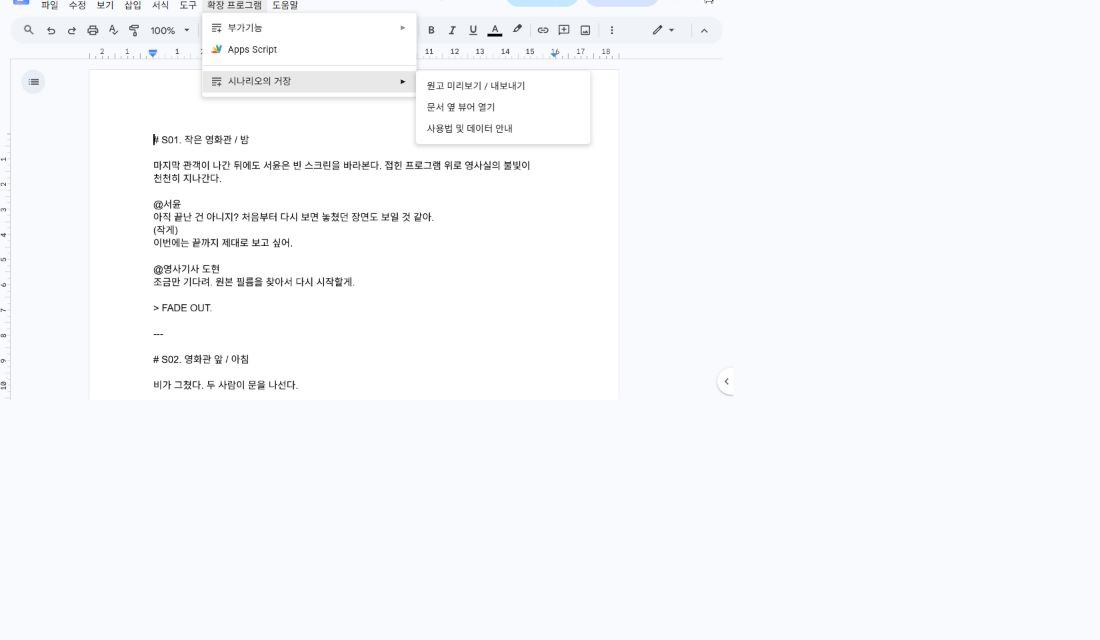
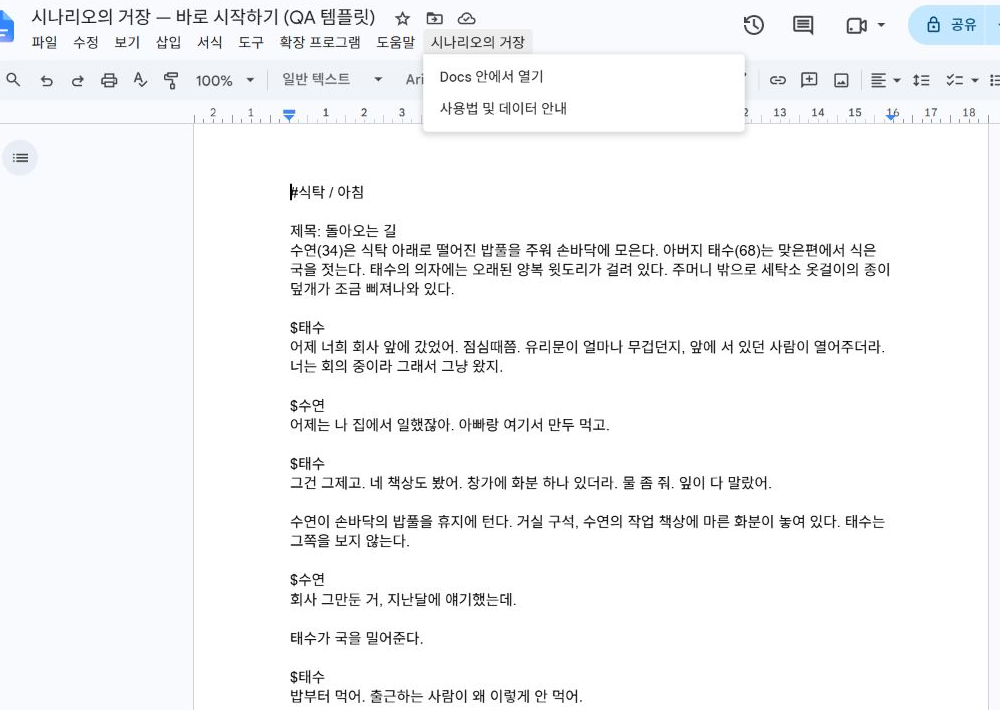
Refresh dollar syntax walkthrough with private-data-free Docs screenshots

diff --git a/scenariomaster/guide.html b/scenariomaster/guide.html
@@ -11,10 +11,10 @@ $서윤
 $도현
 조금만 기다려. 처음부터 다시 시작할게.
 
-서윤이 접힌 프로그램을 조심스럽게 펼친다.</pre><p>최신 다운로드용 개발판에서 작품명이나 부 제목을 넣고 싶다면 <strong>##마지막 상영</strong>처럼 쓰세요. 씬 번호 없이 크고 굵은 제목으로 표시됩니다.</p><p>사진이나 장면 스케치는 Docs의 <strong>삽입 → 이미지</strong>로 넣으세요. ‘텍스트 줄 안’ 배치를 권장합니다. 굵게·기울임은 Docs의 해당 버튼으로 적용하세요.</p><a href="./syntax.html">다른 상황의 입력법도 살펴보기 →</a></div></div></section>
-<section class="step-guide" id="open"><span class="number">02 · 미리보기 열기</span><h2>지금 쓰는 원고를 바로 보세요.</h2><p>Google Docs에서 <strong>시나리오의 거장 → Docs 안에서 열기</strong>를 누르면 현재 원고가 바로 나타납니다. QA 템플릿에서는 도움말 옆에 메뉴가 있고, 설치 방식에 따라 확장 프로그램 안에 보일 수 있습니다.</p><figure><a class="capture menu" href="./images/guide-open.png" data-enlarge aria-label="Google Docs의 확장 프로그램에서 시나리오의 거장과 Docs 안에서 열기 메뉴를 연 화면 — 크게 보기"><img src="./images/guide-open.png" alt="Google Docs의 확장 프로그램에서 시나리오의 거장과 Docs 안에서 열기 메뉴를 연 화면" loading="lazy" width="1100" height="640"></a><figcaption>누를 곳: 상단 <strong>확장 프로그램</strong> → <strong>시나리오의 거장</strong> → 오른쪽 <strong>Docs 안에서 열기</strong>. <span>사진을 누르면 크게 볼 수 있습니다.</span></figcaption></figure><p>처음 열 때는 현재 문서·창 표시·계정 이메일 확인 권한을 사용합니다. 별도의 자동 갱신 연결은 Google Docs 읽기 권한을 요청합니다. 권한 자체는 계정의 모든 Docs를 읽을 수 있지만 앱은 지금 연 문서만 읽고 수정·삭제하지 않습니다. 연결 서버는 인증정보만 암호화하여 최대 30일 보관합니다. <a href="./privacy.html">개인정보 안내</a></p><p class="hint">미리보기는 Docs 안에 열립니다. 맨 위 제목을 끌어 창을 옮기고 오른쪽 아래 손잡이로 크기를 조절할 수 있습니다. 문서 옆에 두고 쓰기 편한 크기로 조절해 보세요.</p></section>
-<section class="step-guide"><div class="step-grid"><div><h2>쓴 원고가 대본으로 보입니다.</h2><p>뷰어가 열리면 미리보기를 확인하세요. 내용이 비어 있거나 방금 고친 부분이 안 보이면 위쪽의 <strong>현재 Docs 읽기</strong> 또는 <strong>Docs 최신 내용 읽기</strong>를 누릅니다.</p><p>문서 수정은 자동으로 확인합니다. 입력한 글자가 즉시 나타나지는 않을 수 있으니, 저장하기 전 최신 내용을 한 번 확인해 주세요.</p><ul><li><strong>씬 목록 / 이전 씬 / 다음 씬:</strong> 보고 싶은 장면으로 이동합니다.</li><li><strong>보기 크기:</strong> 화면에서 편하게 읽을 크기를 고릅니다.</li><li><strong>원고만 크게 보기:</strong> 설정을 접고 원고에 집중합니다.</li></ul><p class="hint">보기 크기는 화면 확대입니다. 저장할 파일의 글자 크기는 다음 단계의 <strong>글꼴 · 용지 · 양식</strong>에서 바꾸세요.</p></div><figure><a class="capture " href="./images/guide-preview.png" data-enlarge aria-label="원고가 가운데 인물명 양식으로 표시된 실제 미리보기 창 — 크게 보기"><img src="./images/guide-preview.png" alt="원고가 가운데 인물명 양식으로 표시된 실제 미리보기 창" loading="lazy" width="800" height="875"></a><figcaption>위쪽에서 최신 원고를 읽고, 가운데 씬 목록으로 이동하며, 아래에서 출력 모양을 확인합니다. <span>사진을 누르면 크게 볼 수 있습니다.</span></figcaption></figure></div></section>
-<section class="step-guide" id="format"><div class="step-grid"><div><span class="number">03 · 모양 고르기</span><h2>원고는 그대로.<br>제출할 모양만 바꾸세요.</h2><ol><li>뷰어 위쪽 <strong>기본 양식</strong>에서 탭형 또는 가운데 양식을 고릅니다.</li><li><strong>글꼴 · 용지 · 양식</strong>을 누르면 자세한 설정이 펼쳐집니다.</li><li>글꼴과 대사 배치를 먼저 고르세요. 더 세밀하게 바꾸려면 <strong>양식 전체 커스텀 · 용지부터 문단까지</strong>를 펼칩니다.</li><li>용지 크기, 여백, 글자 크기, 인물명·대사 위치를 조절하고 미리보기를 확인합니다. 값은 변경할 때 반영됩니다.</li></ol><p class="hint">처음에는 기본 양식으로 시작해도 충분합니다. 변경한 설정은 이 브라우저에 자동으로 저장되어 다음에도 같은 설정으로 시작할 수 있어요.</p><p>이 과정은 Docs 원문의 내용이나 모양을 덮어쓰지 않습니다. 동료는 같은 원고에서 자신의 출력 양식을 고를 수 있습니다.</p></div><figure><a class="capture " href="./images/guide-settings.png" data-enlarge aria-label="글꼴과 대사 배치 및 용지 크기 여백을 조절하는 실제 설정 화면 — 크게 보기"><img src="./images/guide-settings.png" alt="글꼴과 대사 배치 및 용지 크기 여백을 조절하는 실제 설정 화면" loading="lazy" width="800" height="875"></a><figcaption>위: <strong>글꼴 · 대사 배치</strong>. 아래: <strong>용지 크기와 여백</strong>. 모두 처음부터 바꿀 필요는 없습니다. <span>사진을 누르면 크게 볼 수 있습니다.</span></figcaption></figure></div></section>
-<section class="step-guide" id="save"><div class="step-grid"><div><span class="number">04 · 파일 저장</span><h2>한글 파일 또는 PDF로<br>건네세요.</h2><h3>한글에서 편집할 파일이 필요하다면</h3><p>위쪽 <strong>한글 HWPX</strong>를 누르세요. 내려받은 파일은 보통 컴퓨터의 ‘다운로드’ 폴더에 있습니다. 확장자는 <strong>.hwpx</strong>이며, 오래된 .hwp 형식과는 다릅니다.</p><h3>읽거나 인쇄할 파일이 필요하다면</h3><p><strong>PDF 저장 / 인쇄</strong>를 누른 뒤, 인쇄 창의 대상(프린터)을 <strong>PDF로 저장</strong>으로 고릅니다. 저장 위치와 파일 이름을 정하면 끝입니다.</p><p>PDF는 <strong>배율 100% · 여백 없음 · 머리글과 바닥글 끄기</strong>로 확인하세요. 기기마다 인쇄 창의 항목 이름은 조금 다를 수 있습니다.</p><p class="hint">보내기 전, 저장한 파일을 한 번 열어 보세요. 설치된 글꼴과 프로그램에 따라 줄바꿈과 쪽 수가 달라질 수 있습니다.</p></div><figure><a class="capture " href="./images/guide-export.png" data-enlarge aria-label="미리보기 위쪽에 한글 HWPX와 PDF 저장 인쇄 버튼이 표시된 화면 — 크게 보기"><img src="./images/guide-export.png" alt="미리보기 위쪽에 한글 HWPX와 PDF 저장 인쇄 버튼이 표시된 화면" loading="lazy" width="800" height="875"></a><figcaption>위쪽 <strong>한글 HWPX</strong> 또는 그 옆 <strong>PDF 저장 / 인쇄</strong>를 누르세요. 사진은 HWPX 다운로드를 시작한 화면입니다. <span>사진을 누르면 크게 볼 수 있습니다.</span></figcaption></figure></div></section>
+서윤이 접힌 프로그램을 조심스럽게 펼친다.</pre><figure><a class="capture" href="./images/guide-write.png" data-enlarge aria-label="달러 기호로 인물명을 적은 실제 Google Docs 원고 — 크게 보기"><img src="./images/guide-write.png" alt="실제 QA 문서의 $태수, $수연과 바로 다음 줄에 쓴 대사" width="700" height="555" loading="lazy"></a><figcaption>이름 앞에 <strong>$</strong>를 붙이고 Enter를 눌러 대사를 쓰세요. 지문으로 돌아갈 때는 한 줄을 비웁니다.</figcaption></figure><p>최신 다운로드용 개발판에서 작품명이나 부 제목을 넣고 싶다면 <strong>##마지막 상영</strong>처럼 쓰세요. 씬 번호 없이 크고 굵은 제목으로 표시됩니다.</p><p>사진이나 장면 스케치는 Docs의 <strong>삽입 → 이미지</strong>로 넣으세요. ‘텍스트 줄 안’ 배치를 권장합니다. 굵게·기울임은 Docs의 해당 버튼으로 적용하세요.</p><a href="./syntax.html">다른 상황의 입력법도 살펴보기 →</a></div></div></section>
+<section class="step-guide" id="open"><span class="number">02 · 미리보기 열기</span><h2>지금 쓰는 원고를 바로 보세요.</h2><p>Google Docs에서 <strong>시나리오의 거장 → Docs 안에서 열기</strong>를 누르면 현재 원고가 바로 나타납니다. QA 템플릿에서는 도움말 옆에 메뉴가 있고, 설치 방식에 따라 확장 프로그램 안에 보일 수 있습니다.</p><figure><a class="capture menu" href="./images/guide-open.png?v=dollar1" data-enlarge aria-label="QA 문서에서 도움말 옆 시나리오의 거장 메뉴와 Docs 안에서 열기를 연 화면 — 크게 보기"><img src="./images/guide-open.png?v=dollar1" alt="QA 문서에서 도움말 옆 시나리오의 거장 메뉴와 Docs 안에서 열기를 연 화면" loading="lazy" width="1000" height="710"></a><figcaption>누를 곳: 도움말 옆 <strong>시나리오의 거장</strong> → <strong>Docs 안에서 열기</strong>. 정식 부가기능으로 설치한 경우에는 <strong>확장 프로그램</strong> 안에서 찾으세요. <span>사진을 누르면 크게 볼 수 있습니다.</span></figcaption></figure><p>처음 열 때는 현재 문서·창 표시·계정 이메일 확인 권한을 사용합니다. 별도의 자동 갱신 연결은 Google Docs 읽기 권한을 요청합니다. 권한 자체는 계정의 모든 Docs를 읽을 수 있지만 앱은 지금 연 문서만 읽고 수정·삭제하지 않습니다. 연결 서버는 인증정보만 암호화하여 최대 30일 보관합니다. <a href="./privacy.html">개인정보 안내</a></p><p class="hint">미리보기는 Docs 안에 열립니다. 맨 위 제목을 끌어 창을 옮기고 오른쪽 아래 손잡이로 크기를 조절할 수 있습니다. 문서 옆에 두고 쓰기 편한 크기로 조절해 보세요.</p></section>
+<section class="step-guide"><div class="step-grid"><div><h2>쓴 원고가 대본으로 보입니다.</h2><p>뷰어가 열리면 미리보기를 확인하세요. 내용이 비어 있거나 방금 고친 부분이 안 보이면 <strong>자동 갱신 연결</strong> 상태를 확인한 뒤 <strong>Docs 최신 내용 읽기</strong>를 누릅니다.</p><p>문서 수정은 자동으로 확인합니다. 입력한 글자가 즉시 나타나지는 않을 수 있으니, 저장하기 전 최신 내용을 한 번 확인해 주세요.</p><ul><li><strong>씬 목록 / 이전 씬 / 다음 씬:</strong> 보고 싶은 장면으로 이동합니다.</li><li><strong>보기 크기:</strong> 화면에서 편하게 읽을 크기를 고릅니다.</li><li><strong>원고만 크게 보기:</strong> 설정을 접고 원고에 집중합니다.</li></ul><p class="hint">보기 크기는 화면 확대입니다. 저장할 파일의 글자 크기는 다음 단계의 <strong>글꼴 · 용지 · 양식</strong>에서 바꾸세요.</p></div><figure><a class="capture " href="./images/guide-preview.png?v=dollar1" data-enlarge aria-label="달러 기호로 쓴 원고가 인물명과 대사로 변환된 실제 미리보기 창 — 크게 보기"><img src="./images/guide-preview.png?v=dollar1" alt="달러 기호로 쓴 원고가 인물명과 대사로 변환된 실제 미리보기 창" loading="lazy" width="694" height="664"></a><figcaption><strong>원고만 크게 보기</strong>를 누른 화면입니다. 입력한 달러 기호는 출력에서 빠지고 인물명과 대사만 배치됩니다. <strong>설정 다시 보기</strong>로 돌아갈 수 있습니다. <span>사진을 누르면 크게 볼 수 있습니다.</span></figcaption></figure></div></section>
+<section class="step-guide" id="format"><div class="step-grid"><div><span class="number">03 · 모양 고르기</span><h2>원고는 그대로.<br>제출할 모양만 바꾸세요.</h2><ol><li>뷰어 위쪽 <strong>기본 양식</strong>에서 탭형 또는 가운데 양식을 고릅니다.</li><li><strong>글꼴 · 용지 · 양식</strong>을 누르면 자세한 설정이 펼쳐집니다.</li><li>글꼴과 대사 배치를 먼저 고르세요. 더 세밀하게 바꾸려면 <strong>양식 전체 커스텀 · 용지부터 문단까지</strong>를 펼칩니다.</li><li>용지 크기, 여백, 글자 크기, 인물명·대사 위치를 조절하고 미리보기를 확인합니다. 값은 변경할 때 반영됩니다.</li></ol><p class="hint">처음에는 기본 양식으로 시작해도 충분합니다. 변경한 설정은 이 브라우저에 자동으로 저장되어 다음에도 같은 설정으로 시작할 수 있어요.</p><p>이 과정은 Docs 원문의 내용이나 모양을 덮어쓰지 않습니다. 동료는 같은 원고에서 자신의 출력 양식을 고를 수 있습니다.</p></div><figure><a class="capture " href="./images/guide-settings.png?v=dollar1" data-enlarge aria-label="글꼴과 대사 배치 및 용지 크기 여백을 조절하는 실제 설정 화면 — 크게 보기"><img src="./images/guide-settings.png?v=dollar1" alt="글꼴과 대사 배치 및 용지 크기 여백을 조절하는 실제 설정 화면" loading="lazy" width="694" height="664"></a><figcaption>위에서 <strong>글꼴 · 대사 배치</strong>를 고르세요. 아래의 <strong>양식 전체 커스텀</strong>을 펼치면 용지 규격과 여백 등을 조절할 수 있습니다. <span>사진을 누르면 크게 볼 수 있습니다.</span></figcaption></figure></div></section>
+<section class="step-guide" id="save"><div class="step-grid"><div><span class="number">04 · 파일 저장</span><h2>한글 파일 또는 PDF로<br>건네세요.</h2><h3>한글에서 편집할 파일이 필요하다면</h3><p>위쪽 <strong>한글 HWPX</strong>를 누르세요. 내려받은 파일은 보통 컴퓨터의 ‘다운로드’ 폴더에 있습니다. 확장자는 <strong>.hwpx</strong>이며, 오래된 .hwp 형식과는 다릅니다.</p><h3>읽거나 인쇄할 파일이 필요하다면</h3><p><strong>PDF 저장 / 인쇄</strong>를 누른 뒤, 인쇄 창의 대상(프린터)을 <strong>PDF로 저장</strong>으로 고릅니다. 저장 위치와 파일 이름을 정하면 끝입니다.</p><p>PDF는 <strong>배율 100% · 여백 없음 · 머리글과 바닥글 끄기</strong>로 확인하세요. 기기마다 인쇄 창의 항목 이름은 조금 다를 수 있습니다.</p><p class="hint">보내기 전, 저장한 파일을 한 번 열어 보세요. 설치된 글꼴과 프로그램에 따라 줄바꿈과 쪽 수가 달라질 수 있습니다.</p></div><figure><a class="capture " href="./images/guide-export.png?v=dollar1" data-enlarge aria-label="미리보기 위쪽에 한글 HWPX와 PDF 저장 인쇄 버튼이 표시된 화면 — 크게 보기"><img src="./images/guide-export.png?v=dollar1" alt="미리보기 위쪽에 한글 HWPX와 PDF 저장 인쇄 버튼이 표시된 화면" loading="lazy" width="694" height="664"></a><figcaption>위쪽 <strong>한글 HWPX</strong> 또는 그 옆 <strong>PDF 저장 / 인쇄</strong>를 누르세요. 사진의 <strong>기본 양식</strong> 아래에서 두 저장 버튼을 찾을 수 있습니다. <span>사진을 누르면 크게 볼 수 있습니다.</span></figcaption></figure></div></section>
 <section class="step-guide"><h2>같이 쓰는 원고도, 그대로.</h2><p>공유와 댓글, 제안, 이전 원고로 돌아가기는 Google Docs에서 사용하세요. 중요한 수정 전에는 <strong>파일 → 버전 기록 → 현재 버전 이름 지정</strong>으로 ‘초고’, ‘회의 후 수정’처럼 이름을 붙여 두면 찾기 쉽습니다.</p><a href="./#collaboration">공동 작업과 버전 기록 팁 →</a></section>
 <section class="step-guide"><h2>여기서 막혔나요?</h2><details><summary>메뉴가 안 보여요.</summary><p>문서를 새로고침하고, 설치한 Google 계정으로 열었는지 확인하세요. 현재 스토어는 심사 중이므로 처음 방문한 분에게 메뉴가 저절로 생기지는 않습니다. QA 템플릿을 복사하거나 개발판 설치 안내를 확인하세요.</p></details><details><summary>대사와 지문이 섞여 보여요.</summary><p>이름 앞의 $를 확인하세요. 대사 뒤에 지문을 쓸 때는 한 줄을 비우세요. 빈 줄 뒤에도 같은 인물이 말한다면 $이름을 다시 적습니다.</p></details><details><summary>원고를 고쳤는데 아직 예전 내용이에요.</summary><p>Docs의 저장이 끝났는지, 뷰어 맨 위에 ‘자동 갱신 연결됨’이 보이는지 확인하세요. 처음 연결하지 않았거나 만료된 경우 ‘자동 갱신 연결’을 누릅니다. 글은 자동 반영됩니다. 이미지 변경은 창을 닫고 다시 열어 주세요.</p></details><details><summary>파일이 어디에 저장됐는지 모르겠어요.</summary><p>브라우저 오른쪽 위의 다운로드 목록 또는 컴퓨터의 다운로드 폴더를 확인하세요. PDF는 인쇄 창에서 ‘PDF로 저장’을 선택한 뒤 저장 버튼까지 눌러야 파일이 만들어집니다.</p></details><p>해결되지 않으면 <a href="./support.html">도움말 · 문의</a>로 알려 주세요. 원고 내용과 계정 정보는 가리고, 오류 문구와 막힌 단계만 보내셔도 됩니다.</p></section><p class="note">사진은 가상의 예제 원고로 촬영한 실제 테스트 화면입니다. 계정 정보·개인 문서·브라우저 주소는 포함하지 않았습니다. 화면 속 예제는 입력 규칙을 모두 보여주기 위한 것이 아니며, 새 원고는 위의 짧은 예시로 시작하세요. 배포 버전에 따라 버튼 이름과 배치가 조금 달라질 수 있습니다.</p></main><footer><a href="./">제품 소개</a><a href="./syntax.html">상세 문법</a><a href="./install.html">개발판 설치</a><a href="./privacy.html">개인정보처리방침</a><a href="./creators.html">제작자</a></footer><dialog id="picture"><button type="button" autofocus>닫기 ✕</button><div id="picture-content"></div></dialog><script src="./guide.js" defer></script><script defer src="./site-runtime.js"></script></body></html>

diff --git a/scenariomaster/install.html b/scenariomaster/install.html
@@ -2,9 +2,9 @@
 </head><body>
 <header class="site-header"><a class="brand" href="./"><svg width="24" height="24" viewBox="0 0 24 24" fill="none" stroke="currentColor" stroke-width="1.7" aria-hidden="true"><path d="m4 20 6-6m-3 3 1-7 8-7 5 5-7 8-7 1Z"/><path d="m10 14 7-7"/></svg>시나리오의 거장</a><nav aria-label="주요 메뉴"><a href="./">제품 소개</a><a href="./guide.html">사진으로 보는 사용법</a><a href="./syntax.html">상세 문법</a><a href="./creators.html">제작자</a><a href="./install.html" aria-current="page">다운로드 · QA</a></nav></header><main><div class="note"><strong>사용 방법부터 보고 싶으신가요?</strong><p>원고를 쓰고 파일로 저장하는 순서는 <a href="./guide.html">사진으로 보는 사용법</a>에서 친절하게 안내합니다. 설치된 Docs 문서의 메뉴에서 현재 원고를 바로 열 수 있습니다. 처음 사용하는 테스트 참여자는 아래 개발판 설치 안내를 확인하세요. 정식 스토어 배포는 현재 심사 중입니다.</p></div>
 <p class="tag">GOOGLE DOCS · 개발판</p><h1>함께 쓰던 원고를,<br>원하는 대본 양식으로.</h1><section style="margin:24px 0;padding:24px;border:1px solid #d7b9a8;border-radius:14px;background:#fff8f3"><h2>쓰던 문서에서 바로 열기 · 1.2.1</h2><p><strong>시나리오의 거장 → Docs 안에서 열기</strong>를 누르면 현재 원고가 바로 보입니다. 처음 한 번 <strong>자동 갱신 연결</strong>에서 지금 Docs를 쓰는 Google 계정을 승인하세요. 파일을 다시 고르지 않습니다.</p><p>글의 추가·수정·삭제는 자동 반영되며, 창을 다시 열어도 연결을 최대 30일 유지합니다. 여러 계정이 로그인된 Chrome에서도 시험했습니다. <strong>이미지는 창을 열 때의 모습으로 출력됩니다.</strong> 이미지를 추가·교체한 뒤에는 창을 닫고 다시 열어 주세요. 원고와 이미지를 연결 서버에 보내지 않습니다.</p><p>Google Marketplace 정식 승인은 아직 완료되지 않았습니다. QA 참여자는 공유받은 테스트 문서의 사본으로 시작하세요.</p></section><p class="intro">Google Docs의 공동 편집은 그대로 사용합니다. 부가기능에서 원고를 읽고, 용지와 양식을 조절한 다음 HWPX 또는 PDF로 내보냅니다.</p>
-<div class="note warning"><strong>1.2.0 · 현재 원고 바로 열기</strong><br>이미 설치한 분은 Docs 메뉴에서 바로 시작하세요. 아래 ZIP은 테스트 참여자의 설치·업데이트용입니다. Marketplace 정식 설치는 심사 승인 후 제공합니다.</div>
+<div class="note warning"><strong>1.2.1 · 현재 원고 바로 열기</strong><br>이미 설치한 분은 Docs 메뉴에서 바로 시작하세요. 아래 ZIP은 테스트 참여자의 설치·업데이트용입니다. Marketplace 정식 설치는 심사 승인 후 제공합니다.</div>
 <a class="button" href="./google-docs-addon.zip" download>개발판 ZIP 다운로드 ↓</a><small>설치 파일 3개와 설명서·문법 안내·라이선스가 들어 있습니다. ZIP 파일 자체가 설치되지는 않습니다.</small>
-<p><a href="./qa.html">QA 체크리스트와 결과 기록 →</a> · <a href="./example-screenplay.txt" download>다섯 장면 예시 원고 다운로드</a></p><section><h2>이동하고 크기를 조절하는 큰 원고 화면</h2><p>큰 뷰어는 화면 너비에 맞춰 원고를 보여줍니다. 최대 200% 확대하거나 <strong>원고만 크게 보기</strong>로 설정을 숨길 수 있습니다. <strong>글꼴 · 용지 · 양식</strong>를 펼치면 모든 설정이 나옵니다. 화면 확대는 출력 글자 크기에 영향을 주지 않습니다.</p><p>미리보기는 Docs 안에서 열립니다. 제목을 끌어 이동하고 오른쪽 아래 손잡이로 크기를 조절합니다. Google Docs 화면의 경계에서는 이동이 제한됩니다. 좁은 오른쪽 뷰어는 제거했습니다.</p><p>뷰어를 열면 자동 갱신이 시작됩니다. 약 4초 간격으로 전체 문서를 확인하고, 변경이 있을 때 미리보기를 다시 계산합니다. 글자 단위 실시간 반영은 아닙니다. 숨겨진 창에서는 갱신을 멈춥니다. 연결이 잠시 실패하면 자동으로 재시도합니다. 권한 거부가 발생하면 자동 갱신을 중단하고 마지막 원고임을 표시합니다. 1.2.0은 처음 승인한 Google 연결로 현재 원고를 자동 갱신합니다. 뷰어 위의 연결 상태를 확인하세요. <a href="./support.html#connection">연결 오류 해결 방법</a></p><p>적용한 글꼴·양식 설정은 이 브라우저에 저장됩니다. 창을 다시 열어도 같은 브라우저에서는 설정을 불러옵니다. 현재 원고는 창을 열 때마다 바로 읽습니다.</p></section><section><details><summary>개발판 설치하기 · QA용</summary><p>위 연결 버튼만으로 사용할 수 있으며, 이 단계는 필요하지 않습니다. Docs 문서에 실행 메뉴를 직접 추가하려는 경우에만 아래 설치를 진행하세요. 컴퓨터에서 아래 순서대로 진행하세요. Windows는 Ctrl, Mac은 ⌘(Command) 키를 사용합니다. <strong>문서 제목과 프로젝트 이름은 원하는 이름을 써도 됩니다.</strong></p>
+<p><a href="./qa.html">QA 체크리스트와 결과 기록 →</a> · <a href="./example-screenplay.txt" download>다섯 장면 예시 원고 다운로드</a></p><section><h2>이동하고 크기를 조절하는 큰 원고 화면</h2><p>큰 뷰어는 화면 너비에 맞춰 원고를 보여줍니다. 최대 200% 확대하거나 <strong>원고만 크게 보기</strong>로 설정을 숨길 수 있습니다. <strong>글꼴 · 용지 · 양식</strong>를 펼치면 모든 설정이 나옵니다. 화면 확대는 출력 글자 크기에 영향을 주지 않습니다.</p><p>미리보기는 Docs 안에서 열립니다. 제목을 끌어 이동하고 오른쪽 아래 손잡이로 크기를 조절합니다. Google Docs 화면의 경계에서는 이동이 제한됩니다. 좁은 오른쪽 뷰어는 제거했습니다.</p><p>뷰어를 열면 자동 갱신이 시작됩니다. 약 4초 간격으로 전체 문서를 확인하고, 변경이 있을 때 미리보기를 다시 계산합니다. 글자 단위 실시간 반영은 아닙니다. 숨겨진 창에서는 갱신을 멈춥니다. 연결이 잠시 실패하면 자동으로 재시도합니다. 권한 거부가 발생하면 자동 갱신을 중단하고 마지막 원고임을 표시합니다. 1.2.1은 처음 승인한 Google 연결로 현재 원고를 자동 갱신합니다. 뷰어 위의 연결 상태를 확인하세요. <a href="./support.html#connection">연결 오류 해결 방법</a></p><p>적용한 글꼴·양식 설정은 이 브라우저에 저장됩니다. 창을 다시 열어도 같은 브라우저에서는 설정을 불러옵니다. 현재 원고는 창을 열 때마다 바로 읽습니다.</p></section><section><details><summary>개발판 설치하기 · QA용</summary><p>위 연결 버튼만으로 사용할 수 있으며, 이 단계는 필요하지 않습니다. Docs 문서에 실행 메뉴를 직접 추가하려는 경우에만 아래 설치를 진행하세요. 컴퓨터에서 아래 순서대로 진행하세요. Windows는 Ctrl, Mac은 ⌘(Command) 키를 사용합니다. <strong>문서 제목과 프로젝트 이름은 원하는 이름을 써도 됩니다.</strong></p>
 <details open><summary>1. 내려받은 파일의 압축 풀기</summary><p>위의 <strong>개발판 ZIP 다운로드</strong>를 누릅니다. 내려받은 파일을 마우스 오른쪽 버튼으로 누르고 <strong>모두 압축 풀기</strong>를 선택합니다.</p><p>앞으로 사용할 파일은 <strong>Code.gs / Viewer.html / appsscript.json</strong>, 세 개입니다. 내용을 바꿔 적을 필요는 없습니다.</p></details>
 <details><summary>2. 원고 문서에서 설치 화면 열기</summary><p>Google Docs에서 사용할 문서를 엽니다. 위쪽 메뉴에서 <strong>확장 프로그램 → Apps Script</strong>를 누릅니다. 새 탭이 열립니다.</p><p>위쪽에 ‘제목 없는 프로젝트’라고 나와도 괜찮습니다. 이름은 그대로 두어도 되고, 알아보기 편한 이름으로 바꿔도 됩니다.</p></details>
 <details open><summary>3. Apps Script의 Code.gs에 붙여넣기</summary><div class="note warning"><strong>붙여넣는 곳은 새로 열린 Apps Script 탭입니다.</strong><br>주소에 <strong>script.google.com</strong>이 보이고, 왼쪽에 <strong>파일 → Code.gs</strong>, 오른쪽에 <strong>줄 번호가 있는 글자 영역</strong>이 있어야 합니다. Google Docs의 하얀 원고 종이에는 설치 파일을 붙여넣지 않습니다.</div><p><strong>화면 찾기:</strong> 원고 문서 탭 → 확장 프로그램 → Apps Script → 새 탭의 Code.gs → 오른쪽 글자 영역</p><p>압축을 푼 폴더의 <strong>Code.gs</strong>를 마우스 오른쪽 버튼으로 눌러 <strong>연결 프로그램 → 메모장</strong>으로 엽니다. <strong>Ctrl+A → Ctrl+C</strong>로 전체 내용을 복사합니다.</p><p>Apps Script 탭으로 돌아와 왼쪽 <strong>Code.gs</strong>를 누릅니다. 오른쪽 글자 영역을 클릭하고 <strong>Ctrl+A → Ctrl+V</strong>로 전체 내용을 교체합니다.</p><figure><a href="./images/install-code-editor.png" target="_blank" rel="noopener"><img src="./images/install-code-editor.png" alt="Apps Script 왼쪽 Code.gs가 선택되고 오른쪽 줄 번호 옆에 코드가 표시된 실제 화면" loading="lazy"></a><figcaption>① 왼쪽 <strong>Code.gs</strong> 선택 → ② 오른쪽 <strong>줄 번호 옆 글자 영역</strong> 클릭 → ③ Ctrl+A, Ctrl+V. 사진은 붙여넣기를 마친 화면입니다 · 그림을 누르면 크게 볼 수 있습니다.</figcaption></figure><div class="note warning"><strong>처음 있던 myFunction 코드는 통째로 교체하세요.</strong><p>기본으로 보이는 <code>function myFunction() { }</code>의 중괄호 안에 붙여넣으면 작동하지 않습니다. 오른쪽 글자 영역을 클릭한 뒤 <strong>Ctrl+A → Ctrl+V</strong>로 기존 글자와 중괄호까지 전부 교체하세요. 저장한 뒤 파일 맨 위에서 <code>function onOpen(e)</code>을 찾을 수 있어야 합니다.</p><p>위쪽 실행 함수에 <strong>myFunction만 보인다면</strong> 전체 교체가 되었는지 다시 확인하세요. 이 단계에서는 위쪽 <strong>실행·배포 버튼을 누를 필요가 없습니다.</strong> 나머지 파일까지 넣고 6번에서 원고 문서로 돌아갑니다.</p></div><p><strong>확인:</strong> 오른쪽 줄 번호 옆에 메모장에서 복사한 긴 내용이 나타나면 성공입니다. Ctrl+S로 저장하고 4번으로 넘어가세요.</p><details><summary>붙여넣어도 아무것도 안 보여요</summary><ol><li>메모장 안의 글자를 클릭하고 Ctrl+A로 전체가 선택되는지 확인한 뒤 Ctrl+C를 누르세요.</li><li>브라우저의 Apps Script 탭에서 왼쪽 Code.gs를 선택하세요. 오른쪽에 이미 적힌 글자 사이를 눌러 커서를 놓으세요.</li><li>Ctrl+A 다음 Ctrl+V를 누르세요. 브라우저 주소창이나 왼쪽 파일 이름 칸에 붙여넣고 있지 않은지 확인하세요.</li></ol><p>그래도 안 되면 <strong>붙여넣으려는 화면 전체와 오류 문구</strong>를 캡처해 개발자에게 보내 주세요. 원고 내용과 계정 정보는 가려도 됩니다.</p></details></details>

diff --git a/scenariomaster/guide.css b/scenariomaster/guide.css
@@ -1,1 +1,1 @@
-*{box-sizing:border-box}html{scroll-behavior:smooth}body{margin:0;background:#fafbfc;color:#172437;font:17px/1.85 system-ui,"Malgun Gothic",sans-serif;word-break:keep-all}a{color:#a34d2b;text-underline-offset:4px}main{max-width:1120px;margin:auto;padding:32px 28px 80px}h1{font-size:clamp(36px,5vw,58px);line-height:1.25;letter-spacing:-2px;margin:16px 0 24px}h2{font-size:30px;line-height:1.4;margin:8px 0 20px}h3{font-size:20px}.lead{max-width:740px;color:#526074;font-size:20px}.tag,.number{color:#a34d2b;font-weight:750}.note{padding:20px 24px;background:#edf1f5;border-radius:10px}.steps{display:flex;gap:12px;flex-wrap:wrap;padding:24px 0}.steps a,.button{border:1px solid #cdd6df;border-radius:6px;padding:10px 16px;text-decoration:none;background:white}.step-guide{scroll-margin-top:20px;padding:52px 0;border-bottom:1px solid #dce2e8}.step-grid{display:grid;grid-template-columns:1fr 1.15fr;gap:40px;align-items:start}.step-grid>div{min-width:0}li{margin:10px 0}figure{margin:0;background:white;border:1px solid #dce2e8;border-radius:12px;overflow:hidden}figcaption{padding:16px 20px;font-size:15px;color:#526074}.capture{display:block;position:relative;overflow:hidden;aspect-ratio:530/584;background:#f8fafc}.capture img{display:block;width:150.944%;max-width:none;height:auto}.capture.menu{aspect-ratio:720/150}.capture.menu img{width:152.778%}.capture:hover{outline:3px solid #d45e35;outline-offset:-3px}.hint{border-left:3px solid #d45e35;padding-left:18px}pre{white-space:pre-wrap;font:17px/1.9 "Malgun Gothic",sans-serif;background:white;border:1px solid #cdd6df;padding:24px;border-radius:8px}code{background:#edf1f5;padding:2px 5px}details{border-bottom:1px solid #dce2e8;padding:20px 0}summary{cursor:pointer;font-weight:700}footer{max-width:1120px;margin:auto;padding:30px;display:flex;flex-wrap:wrap;gap:22px;font-size:14px}dialog{max-width:95vw;max-height:95vh;border:0;border-radius:12px;padding:18px}dialog::backdrop{background:#101a2dcc}dialog button{display:block;margin:0 0 12px auto;padding:10px 20px;font:inherit;cursor:pointer}dialog .capture{width:min(720px,80vw)}dialog .menu{width:min(1050px,85vw)}a:focus-visible,button:focus-visible,summary:focus-visible{outline:3px solid #d45e35;outline-offset:4px}@media(max-width:760px){main{padding:20px 22px 50px}.step-grid{grid-template-columns:1fr;gap:24px}h2{font-size:26px}.step-guide{padding:36px 0}.lead{font-size:18px}}@media(prefers-reduced-motion:reduce){html{scroll-behavior:auto}}
+*{box-sizing:border-box}html{scroll-behavior:smooth}body{margin:0;background:#fafbfc;color:#172437;font:17px/1.85 system-ui,"Malgun Gothic",sans-serif;word-break:keep-all}a{color:#a34d2b;text-underline-offset:4px}main{max-width:1120px;margin:auto;padding:32px 28px 80px}h1{font-size:clamp(36px,5vw,58px);line-height:1.25;letter-spacing:-2px;margin:16px 0 24px}h2{font-size:30px;line-height:1.4;margin:8px 0 20px}h3{font-size:20px}.lead{max-width:740px;color:#526074;font-size:20px}.tag,.number{color:#a34d2b;font-weight:750}.note{padding:20px 24px;background:#edf1f5;border-radius:10px}.steps{display:flex;gap:12px;flex-wrap:wrap;padding:24px 0}.steps a,.button{border:1px solid #cdd6df;border-radius:6px;padding:10px 16px;text-decoration:none;background:white}.step-guide{scroll-margin-top:20px;padding:52px 0;border-bottom:1px solid #dce2e8}.step-grid{display:grid;grid-template-columns:1fr 1.15fr;gap:40px;align-items:start}.step-grid>div{min-width:0}li{margin:10px 0}figure{margin:0;background:white;border:1px solid #dce2e8;border-radius:12px;overflow:hidden}figcaption{padding:16px 20px;font-size:15px;color:#526074}.capture{display:block;position:relative;overflow:hidden;aspect-ratio:auto;background:#f8fafc}.capture img{display:block;width:100%;max-width:none;height:auto}.capture.menu{aspect-ratio:auto}.capture.menu img{width:100%}.capture:hover{outline:3px solid #d45e35;outline-offset:-3px}.hint{border-left:3px solid #d45e35;padding-left:18px}pre{white-space:pre-wrap;font:17px/1.9 "Malgun Gothic",sans-serif;background:white;border:1px solid #cdd6df;padding:24px;border-radius:8px}code{background:#edf1f5;padding:2px 5px}details{border-bottom:1px solid #dce2e8;padding:20px 0}summary{cursor:pointer;font-weight:700}footer{max-width:1120px;margin:auto;padding:30px;display:flex;flex-wrap:wrap;gap:22px;font-size:14px}dialog{max-width:95vw;max-height:95vh;border:0;border-radius:12px;padding:18px}dialog::backdrop{background:#101a2dcc}dialog button{display:block;margin:0 0 12px auto;padding:10px 20px;font:inherit;cursor:pointer}dialog .capture{width:min(720px,80vw)}dialog .menu{width:min(1050px,85vw)}a:focus-visible,button:focus-visible,summary:focus-visible{outline:3px solid #d45e35;outline-offset:4px}@media(max-width:760px){main{padding:20px 22px 50px}.step-grid{grid-template-columns:1fr;gap:24px}h2{font-size:26px}.step-guide{padding:36px 0}.lead{font-size:18px}}@media(prefers-reduced-motion:reduce){html{scroll-behavior:auto}}
